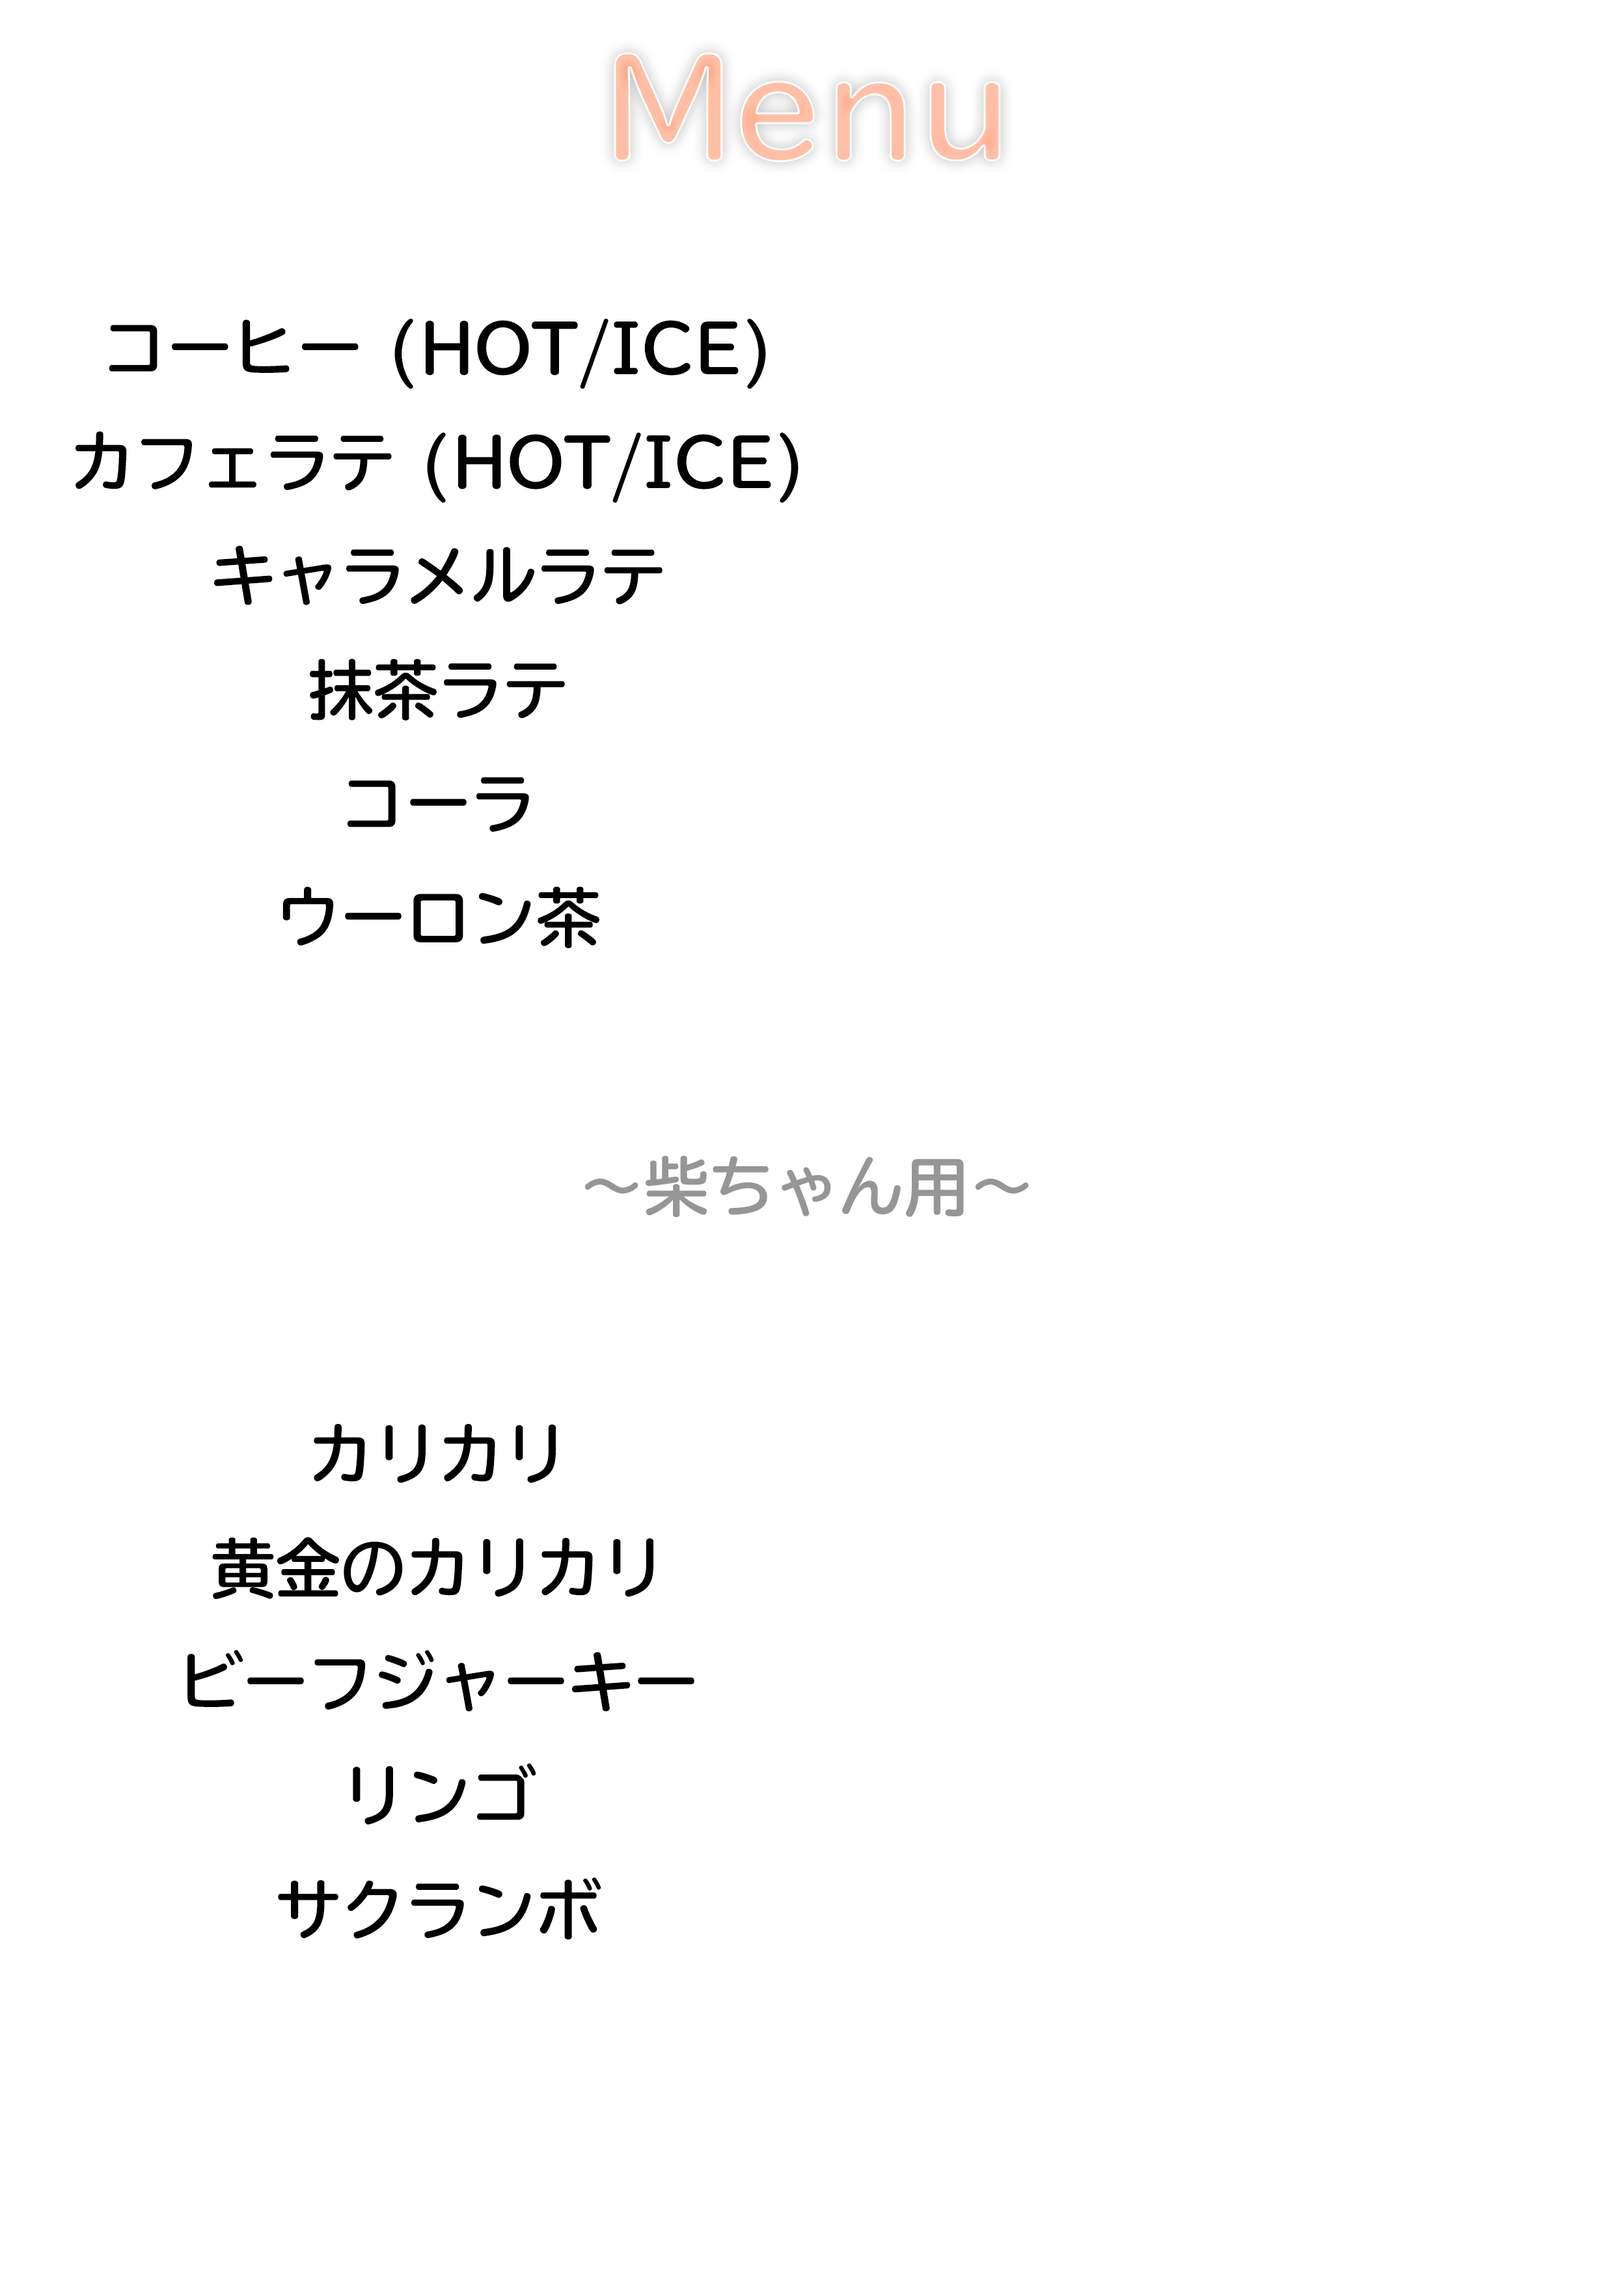
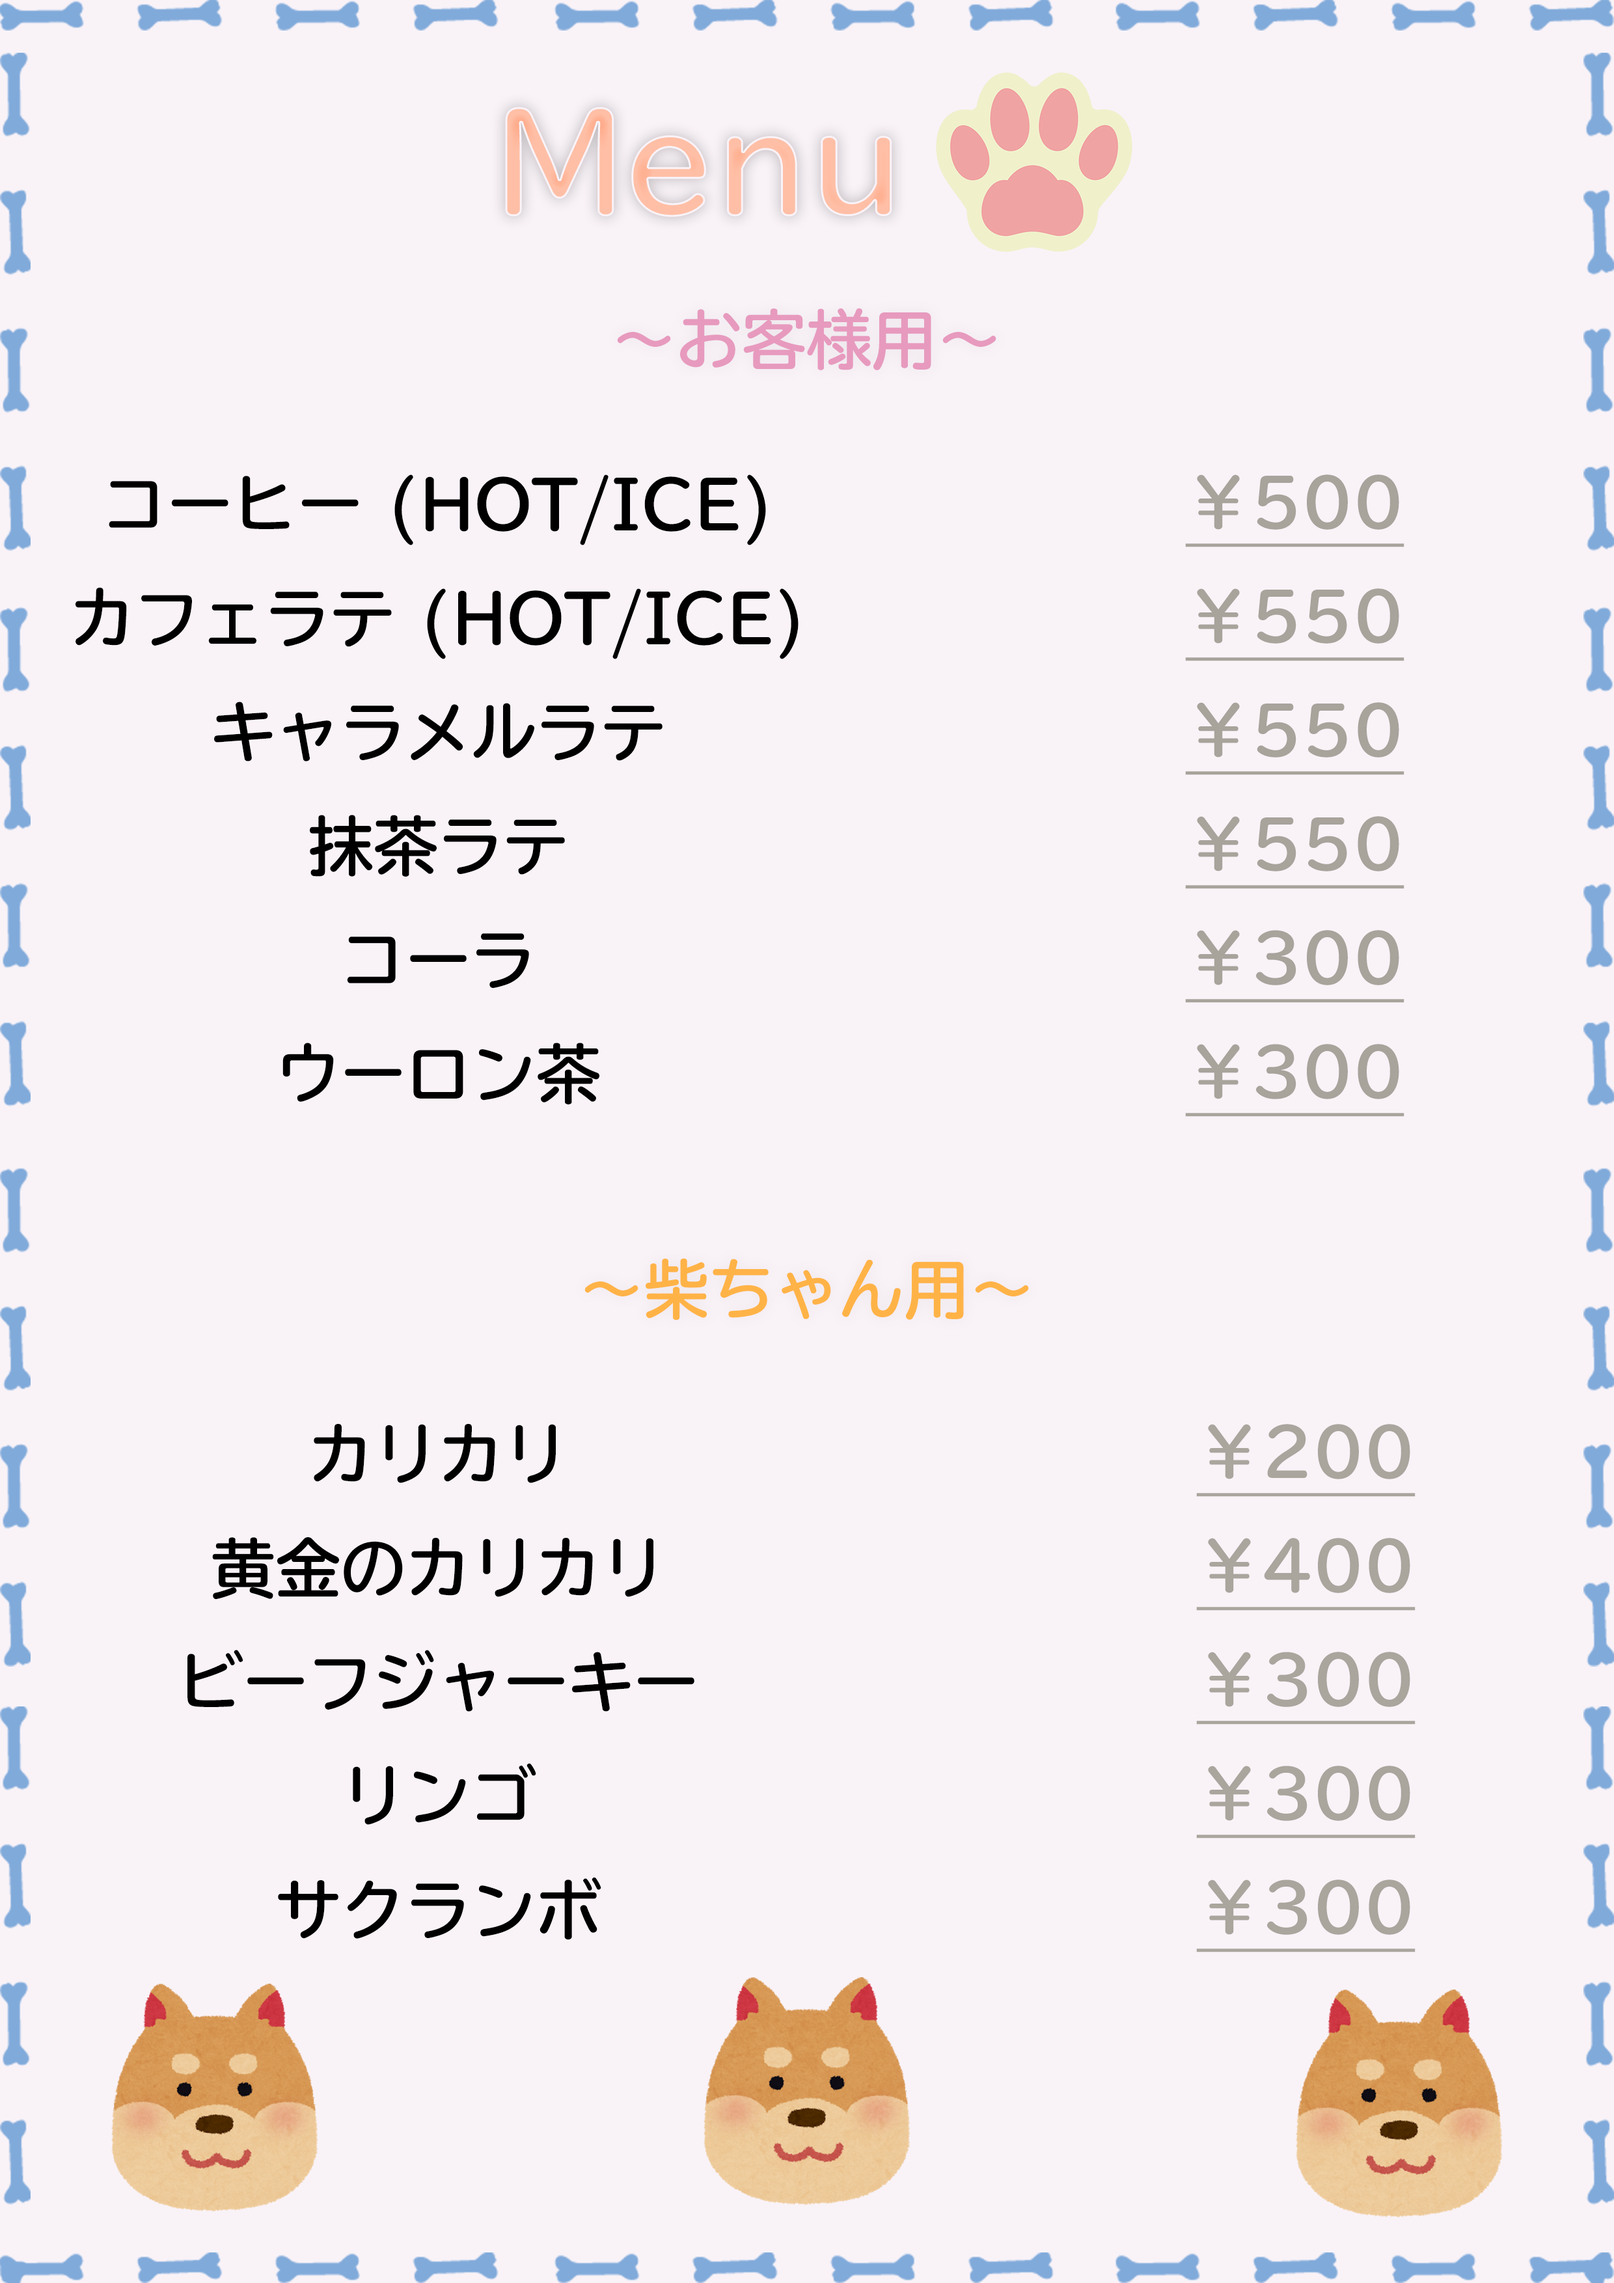
main

diff --git a/index.html b/index.html
@@ -116,7 +116,7 @@
 	<div class="menu" id="menu">
   	  <img src="pictures/menu.png">
 	  <div class="cafe-menu">
-		  <a href="pictures/menu.png" target="_blank"><img src="pictures/menu.png"></a>
+		  <a href="pictures/cafe-menu.png" target="_blank"><img src="pictures/cafe-menu.png"></a>
 		  <p>ドリンク　￥300～<br>柴ちゃん用ごはん　￥200～<br><br><br>クレジットカード、各種電子マネー対応！</p>
 	  </div>
     </div>
